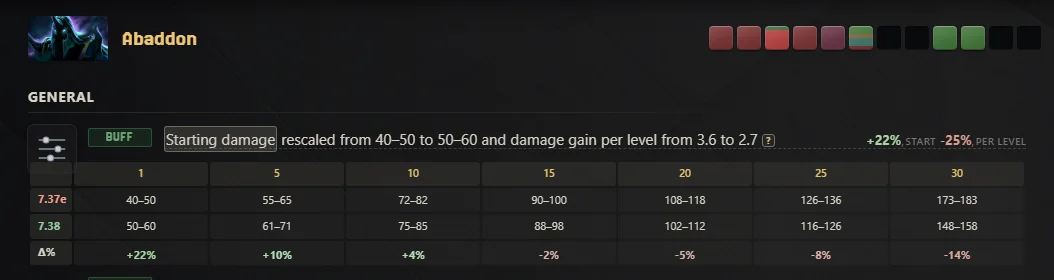
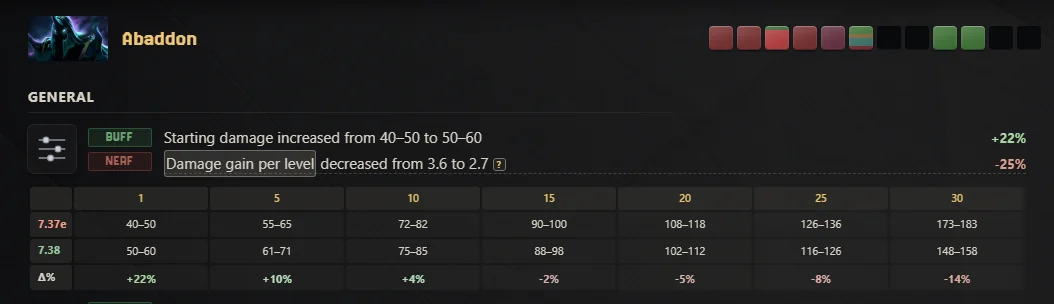
feat(heroes): hero damage as two rows, starting damage and gain per level, each with its own tag
One row could not carry one tag when the start went up and the growth went
down (Abaddon 7.38). Now "Starting damage increased from 40-50 to 50-60" (BUFF)
and "Damage gain per level decreased from 3.6 to 2.7" (NERF, opens the damage
by level). A number that did not change gets no row, the (?) says so. The
hidden rows' tags are no longer copied onto the rows (Batrider's NERF row showed
under BUFF). Abaddon's BUFF override is gone.

diff --git a/patch/elements.py b/patch/elements.py
@@ -617,22 +617,22 @@ def plain_header(name, dynamics=True, terrain_link=None, sublabel=False, new=Non
     return out + head + f'<div class="entity plain-entity"{eid}><div class="entity-name">{name}{label}</div>{link_html}</div>'
 
 
-# ---- A hero's attack damage by level as one row (owner 2026-09-28, pilot Abaddon 7.38) ----
+# ---- A hero's attack damage: starting damage + damage gain per level (owner 2026-09-28) ----
 # 7.38 lowered the Universal damage per attribute 0.7 -> 0.45 and raised base damage and attribute gains to make
 # up for it: "Base Damage increased by 26" (+650%) alone meant nothing. The damage rows of such a hero (base
-# damage, damage at level 1 / 30, damage gain per level) become ONE row "Attack damage by level" with a table
-# behind a click; they stay in the page hidden (tag filters, weights as before). Attribute rows stay rows.
-_HS_CARDS = {}                  # "<ek>|<pv>" -> {"hero", "before", "after", "tags", "valve": {1: ..., 30: ...}}
+# damage, damage at level 1 / 30, damage gain per level) become two rows, "Starting damage" and "Damage gain per
+# level", each with its own tag, the second with a table by level behind a click; the old rows stay in the page
+# hidden (tag filters, weights as before). Attribute rows stay rows.
+_HS_CARDS = {}                  # "<ek>|<pv>" -> {"hero", "before", "after", "valve": {1: ..., 30: ...}}
 _HS_LEVELS = (1, 5, 10, 15, 20, 25, 30)
 _HS_GAIN_VALVE_RE = re.compile(r"damage gain per level \w+ from \+?([\d.]+) to \+?([\d.]+)", re.I)
 _HS_DMG_VALVE_RE = re.compile(r"damage at level (1|30) \w+ by \d+ \(from (\d+)-(\d+) to (\d+)-(\d+)\)", re.I)
 
 
-def hero_stat_card(before=None, tag=None):
+def hero_stat_card(before=None):
     """Called right after the GENERAL ul_open() of a hero block. `before` = the patch compared against (the
-    previous one by default); `tag` = the row's chip when the owner set it (else the site's rule for a change
-    by level). Drawn when the page is saved (render_hs_card), after the rows under it have been matched: they
-    are hidden, their tags go on the row for the filters."""
+    previous one by default). Drawn when the page is saved (render_hs_card), after the rows under it have been
+    matched: they are hidden, their tags go on the rows for the filters."""
     from .hero_stats import attrs_changed
     from .weights import _prev_version
     ek, pv, hero = _State.current_entity_key or "", _State.current_patch_version, _State.current_hero
@@ -640,15 +640,15 @@ def hero_stat_card(before=None, tag=None):
     if not (ek.startswith("hero|") and pv and hero and before and attrs_changed(hero, before, pv)):
         return ""
     key = f"{ek}|{pv}"
-    _HS_CARDS[key] = {"hero": hero, "before": before, "after": pv, "tags": set(), "valve": {}, "tag": tag}
+    _HS_CARDS[key] = {"hero": hero, "before": before, "after": pv, "valve": {}}
     _State.hs_card = {"ek": ek, "pv": pv, "key": key}
     return f"<!--HSCARD:{key}-->"
 
 
 def _hs_covered(text, tags):
-    """A GENERAL row the hero's attributes card / damage table shows: attribute base / gain, base damage,
-    damage at level 1 / 30 and damage gain per level. Its tag goes on the card; Valve's level-1 / level-30
-    damage numbers are kept (the table shows them as Valve stated them)."""
+    """A GENERAL damage row the two damage rows show: base damage, damage at level 1 / 30 and damage gain per
+    level (hidden; its tag still counts for weights, `tags` unused here). Valve's level-1 / level-30 damage and
+    gain per level are kept: the rows and the table show them as Valve stated them."""
     card = getattr(_State, "hs_card", None)
     if not card or (card["ek"], card["pv"]) != (_State.current_entity_key, _State.current_patch_version):
         return False
@@ -662,10 +662,7 @@ def _hs_covered(text, tags):
     if g:                                            # Valve's own damage gain per level (3.6 -> 2.7)
         rec["valve"]["gain"] = (float(g.group(1)), float(g.group(2)))
     # only the damage rows: the attribute rows and a main attribute change stay rows (owner 2026-09-28)
-    if not (m or _DMG_ROW_RE.match(plain)):
-        return False
-    rec["tags"] |= set(tags)
-    return True
+    return bool(m or _DMG_ROW_RE.match(plain))
 
 
 def _hs_damage_cells(rec, old, new):
@@ -697,11 +694,32 @@ def _hs_table(fid, head, row_o, row_n, row_p, rec):
             f'<tr><th>Δ%</th>{row_p}</tr></tbody></table>')
 
 
+_HS_CHIPS = {"buff": '<span class="badge buff-text" data-tag="buff" data-overall="buff">BUFF</span>',
+             "nerf": '<span class="badge nerf-text" data-tag="nerf" data-overall="nerf">NERF</span>',
+             "misc": '<span class="badge misc" data-tag="misc">MISC</span>'}
+
+
+def _hs_tag(badge):
+    rule = re.search(r'data-overall="(\w+)"', badge)
+    return rule.group(1) if rule and rule.group(1) in ("buff", "nerf") else "misc"
+
+
+def _hs_row(name, before, after, badge, tail="", table=""):
+    """One row "<name> increased from A to B" with its own chip by the direction of its own number."""
+    tag = _hs_tag(badge)
+    verb = {"buff": "increased", "nerf": "decreased"}.get(tag, "changed")
+    cls = "li-bg li-formula hs-dmg-li" if table else "li-bg hs-dmg-li"
+    return (f'<li data-tag="{tag}" class="{cls}">{_HS_CHIPS[tag]}<span class="row-text">{name} {verb} from '
+            f'{before} to {after}{tail}</span>{badge}{table}</li>')
+
+
 def render_hs_card(key):
-    """ONE row in place of the hero's damage rows (owner 2026-09-28): "Starting damage rescaled from 40–50 to
-    50–60 and damage gain per level from 3.6 to 2.7" — "Starting damage" opens the damage at levels 1 … 30 (level
-    30 with all Attribute Bonus levels, as Valve counts it); the % of both numbers on the right (start, per
-    level); what damage is made of (damage per attribute, base damage) in the (?). Attribute rows stay rows."""
+    """TWO rows in place of the hero's damage rows (owner 2026-09-28: one row could not carry one tag when the
+    start went up and the growth went down, Abaddon 7.38): "Starting damage increased from 40–50 to 50–60" and
+    "Damage gain per level decreased from 3.6 to 2.7", each with its own % and chip; "Damage gain per level"
+    opens the damage at levels 1 … 30 (level 30 with all Attribute Bonus levels, as Valve counts it); what
+    damage is made of (damage per attribute, base damage) in the (?). A number that did not change has no row.
+    Attribute rows stay rows."""
     from .badges import b
     from .hero_stats import damage_at, hero_stats, universal_multiplier
     rec = _HS_CARDS.get(key)
@@ -711,10 +729,6 @@ def render_hs_card(key):
     avg = lambda p: (p[0] + p[1]) / 2
     cells = _hs_damage_cells(rec, old, new)
     pcts = [b(avg(o), avg(n)) for _, o, n in cells]
-    overall = rec.get("tag")
-    if overall not in ("buff", "nerf", "misc", "rework"):
-        rule = re.search(r'data-overall="(\w+)"', b([avg(o) for _, o, _ in cells], [avg(n) for _, _, n in cells]))
-        overall = rule.group(1) if rule and rule.group(1) in ("buff", "nerf") else "misc"
     # Valve's own per-level figures when the notes state them, else the game files' rounded to 0.1
     model = lambda st, ver: round(damage_at(st, ver, 2)[0] - damage_at(st, ver, 1)[0], 1)
     per_o, per_n = rec["valve"].get("gain") or (model(old, rec["before"]), model(new, rec["after"]))
@@ -724,15 +738,6 @@ def render_hs_card(key):
                       "".join(f"<td>{o[0]}–{o[1]}</td>" for _, o, _ in cells),
                       "".join(f"<td>{n[0]}–{n[1]}</td>" for _, _, n in cells),
                       "".join(f"<td>{_hs_inner(p)}</td>" for p in pcts), rec)
-    # the two numbers of the row, each with its %: starting damage and damage gain per level (owner 2026-09-28:
-    # "start / end" showed the level-30 damage, not the gain; that one is in the table)
-    badge = (f'<span class="badge-group" data-overall="{overall}">{_hs_inner(pcts[0])}'
-             f'<span class="formula-endpoint-label">start</span>{_hs_inner(b(per_o, per_n))}'
-             f'<span class="formula-endpoint-label">per level</span></span>')
-    chip = {"buff": '<span class="badge buff-text" data-tag="buff" data-overall="buff">BUFF</span>',
-            "nerf": '<span class="badge nerf-text" data-tag="nerf" data-overall="nerf">NERF</span>',
-            "rework": '<span class="badge rework" data-tag="rework">REWORK</span>',
-            "misc": '<span class="badge misc" data-tag="misc">MISC</span>'}[overall]
     notes = []
     if "all" in (old["primary"], new["primary"]):
         mo = universal_multiplier(rec["before"]) if old["primary"] == "all" else None
@@ -742,22 +747,27 @@ def render_hs_card(key):
     if (old["dmg_min"], old["dmg_max"]) != (new["dmg_min"], new["dmg_max"]):
         notes.append(f'Base damage {old["dmg_min"]:g}–{old["dmg_max"]:g} → {new["dmg_min"]:g}–{new["dmg_max"]:g}'
                      + (" makes up for it" if notes else ""))
-    notes.append("Level 30 counts all 7 Attribute Bonus levels (+14 to every attribute), as Valve does")
-    tip = f'<span class="li-tail">{info_tip(*notes)}</span>'
-    tags = " ".join(sorted(rec["tags"] | {overall}))
     (o1, n1) = cells[0][1], cells[0][2]
-    trig = lambda words: f'<span class="formula-trigger" data-formula="{fid}">{words}</span>'
     s1, s2 = f"{o1[0]}–{o1[1]}", f"{n1[0]}–{n1[1]}"
     g1, g2 = f"{per_o:.1f}", f"{per_n:.1f}"
-    if o1 == n1:          # Batrider 7.38: "rescaled from 39–43 to 39–43" said nothing
-        text = f'{trig("Damage gain per level")} rescaled from {g1} to {g2}, starting damage unchanged at {s1}{tip}'
-    elif g1 == g2:
-        text = f'{trig("Starting damage")} rescaled from {s1} to {s2}, damage gain per level unchanged at {g1}{tip}'
-    else:
-        text = (f'{trig("Starting damage")} rescaled from {s1} to {s2} and damage gain per level '
-                f'from {g1} to {g2}{tip}')
-    return (f'<li data-tag="{tags}" class="li-bg li-formula hs-dmg-li">{chip}<span class="row-text">{text}</span>'
-            f'{badge}{table}</li>')
+    if o1 == n1:                                     # Batrider 7.38: the start stayed, only the growth moved
+        notes.append(f"Starting damage unchanged at {s1}")
+    if g1 == g2:
+        notes.append(f"Damage gain per level unchanged at {g1}")
+    notes.append("Level 30 counts all 7 Attribute Bonus levels (+14 to every attribute), as Valve does")
+    tip = f'<span class="li-tail">{info_tip(*notes)}</span>'
+    trig = lambda words: f'<span class="formula-trigger" data-formula="{fid}">{words}</span>'
+    start = (("Starting damage", s1, s2, pcts[0]),) if o1 != n1 else ()
+    gain = (("Damage gain per level", g1, g2, b(per_o, per_n)),) if g1 != g2 else ()
+    shown = start + gain or (("Starting damage", s1, s2, pcts[0]),)
+    # each row only its own tag: the hidden rows' tags (Base Damage +26 = BUFF) do not put a NERF row under BUFF;
+    # a hidden row never keeps a block on screen (scripts.js rowOnScreen)
+    rows = []
+    for i, (name, before, after, badge) in enumerate(shown):
+        last = i == len(shown) - 1                   # the last row opens the table and carries the (?)
+        rows.append(_hs_row(trig(name) if last else name, before, after, badge,
+                            tail=tip if last else "", table=table if last else ""))
+    return "".join(rows)
 
 
 _HS_TABLE_ID = [0]

diff --git a/tests/test_hero_stat_card.py b/tests/test_hero_stat_card.py
@@ -1,5 +1,6 @@
-"""Owner 2026-09-28 (Abaddon 7.38): a hero's GENERAL block starts with an attributes card (base + gain, base damage,
-damage per attribute; before -> after) and a table of attack damage by level; the rows it shows are hidden."""
+"""Owner 2026-09-28 (Abaddon 7.38): a hero whose damage growth Valve rescaled gets two rows at the top of GENERAL,
+"Starting damage …" and "Damage gain per level …", each with its own tag, the second opening the damage by level;
+Valve's damage rows under them are hidden."""
 import re
 
 from patch import elements as el
@@ -31,21 +32,16 @@ def test_card_hides_its_rows_and_carries_their_tags():
         assert not el._hs_covered("Mist Coil damage increased from 100 to 120", {"buff"})
         assert el._hs_covered("Damage gain per level decreased from +3.6 to +2.7", {"nerf"})
         html = el.render_hs_card("hero|abaddon|7.38")
-        # ONE row with the numbers in it; "Starting damage" opens the damage by level
-        assert html.startswith('<li data-tag="buff nerf" class="li-bg li-formula hs-dmg-li">')
-        assert re.search(r'>Starting damage</span> rescaled from 40–50 to 50–60 and damage gain per level '
-                         r'from 3\.6 to 2\.7<', html)
-        assert html.count('class="formula-table') == 1                        # one table
+        # TWO rows, each with its own tag (owner 2026-09-28: the start went up, the growth went down)
+        start, gain = re.findall(r"<li .*?</li>(?=<li |$)", html, re.S)
+        assert start.startswith('<li data-tag="buff" class="li-bg hs-dmg-li">')
+        assert "Starting damage increased from 40–50 to 50–60<" in start and ">+22%<" in start
+        assert gain.startswith('<li data-tag="nerf" class="li-bg li-formula hs-dmg-li">')
+        assert re.search(r'>Damage gain per level</span> decreased from 3\.6 to 2\.7<', gain) and ">-25%<" in gain
+        assert html.count('class="formula-table') == 1 and 'class="formula-table' in gain   # one table, 2nd row
         # level 30 = Valve's figure, all 7 Attribute Bonus levels counted
-        assert "173–183" in html and "148–158" in html and "all 7 Attribute Bonus levels" in html
-        # the % of both numbers: starting damage +22%, gain per level 3.6 -> 2.7 = -25% (level 30's -14%: table)
-        assert re.search(r'\+22%</span><span class="formula-endpoint-label">start</span>'
-                         r'<span class="badge nerf\d+">-25%</span><span class="formula-endpoint-label">per level</span>', html)
-        assert 'data-overall="nerf">NERF</span>' in html                      # the site's rule: -14% at the end
-        assert "0.7 → 0.45 damage per attribute" in html
-        _HS = el._HS_CARDS["hero|abaddon|7.38"]
-        _HS["tag"] = "buff"                                                   # the owner's choice for Abaddon
-        assert 'data-overall="buff">BUFF</span>' in el.render_hs_card("hero|abaddon|7.38")
+        assert "173–183" in gain and "148–158" in gain and "all 7 Attribute Bonus levels" in gain
+        assert "0.7 → 0.45 damage per attribute" in gain
     finally:
         _State.current_entity_key, _State.current_patch_version, _State.current_hero, _State.hs_card = saved
 
@@ -72,7 +68,8 @@ def test_unchanged_starting_damage_is_said_so():
         el.hero_stat_card()
         el._hs_covered("Damage at level 1 increased by 0 (from 39-43 to 39-43)", {"misc"})
         html = el.render_hs_card("hero|batrider|7.38")
-        assert re.search(r'>Damage gain per level</span> rescaled from [\d.]+ to [\d.]+, starting damage unchanged '
-                         r'at 39–43', html)
+        # the start did not move: no row for it, only the growth's row, the (?) says so
+        assert html.count("<li ") == 1 and "Starting damage unchanged at 39–43" in html
+        assert re.search(r'data-tag="nerf".*>Damage gain per level</span> decreased from [\d.]+ to [\d.]+<', html)
     finally:
         _State.current_entity_key, _State.current_patch_version, _State.current_hero, _State.hs_card = saved

diff --git a/tools/changelog_shots.py b/tools/changelog_shots.py
@@ -74,7 +74,7 @@ SHOTS = {
                                     ".ec-islot >> nth=1", ".ec-ipicker-overlay [data-ec-ipick='blink-dagger']"],
                                    140, {"width": 1400, "wait": 1500}),
     "2026-09-28_hero_damage.webp": ("patches/7.38.html", ("block", "Abaddon"),
-                                    [":scope > .entity", ":scope li.hs-dmg-li"],
+                                    [":scope > .entity", ":scope li.hs-dmg-li.li-formula"],
                                     [":scope li.hs-dmg-li .formula-trigger"], 420, {"width": 1400}),
     "2026-09-28_enchant_table.webp": ("patches/7.38.html", None,
                                       [".entity-block.enchant-list-head", ".entity-block.enchant-list-row >> nth=5"], [], 420, {"settle": 2500}),

diff --git a/content/p738.py b/content/p738.py
@@ -790,7 +790,7 @@ def build():
     # Abaddon
     W(hero_header("Abaddon"))
     W(ul_open())
-    W(hero_stat_card(tag="buff"))   # the owner kept BUFF (2026-09-28)
+    W(hero_stat_card())
     W(li("Base Damage increased by 26", bstat_h("Abaddon", "AttackDamageMin", "7.37e", 26), extra=note_box(hero="Abaddon", field="AttackDamageMin", before_patch="7.37e")))
     W(li("Base Intelligence decreased from 19 to 18", b(19, 18)))
     W(li("Damage at level 1 increased by 10 (from 40-50 to 50-60)", br(40, 50, 50, 60)))

diff --git a/docs/agent-rules/entity-rendering.md b/docs/agent-rules/entity-rendering.md
@@ -269,36 +269,37 @@ damage» — не про характеристику урона). «+N All Attr
   про встроенный бонус дальности).
 - Длинные значения (5 уровней Dagon) переносятся второй строкой справа, название способности не разрывается.
 
-## Урон атаки героя одной строкой (2026-09-28: пилот на Abaddon 7.38, раскатано на 36 героев)
+## Урон атаки героя: стартовый урон + прирост за уровень (2026-09-28, 36 героев)
 
 7.38 снизил урон универсалов за очко характеристики 0.7 → 0.45 и поднял базовый урон и прирост в компенсацию:
 «Base Damage increased by 26» (+650%) сам по себе ничего не значил. `hero_stat_card()` (patch/elements.py,
-модель — patch/hero_stats.py по файлам игры обоих патчей) — ОДНА строка вместо строк урона:
+модель — patch/hero_stats.py по файлам игры обоих патчей) — ДВЕ строки вместо строк урона, у каждой свой тег и %:
 
-«**Starting damage** rescaled from 40–50 to 50–60 and damage gain per level from 3.6 to 2.7 (?)  +22% start −25% per level»
+«BUFF  Starting damage increased from 40–50 to 50–60  +22%»
+«NERF  **Damage gain per level** decreased from 3.6 to 2.7 (?)  −25%»
 
-Справа — проценты обоих чисел (стартовый урон и прирост за уровень); итог на 30-м уровне (−14%) — в таблице.
-
-- «Starting damage» — кнопка формулы: урон на уровнях 1, 5, 10, 15, 20, 25, 30 (было / стало / Δ%). 30-й уровень
+- Две строки, а не одна (владелец 2026-09-28): старт вырос, прирост упал — одна строка не несла один тег
+  (у Abaddon правило давало NERF, владелец хотел BUFF). Тег каждой строки — по направлению её числа;
+  increased / decreased по тегу, «changed» при 0% (Sand King 7.38: 46–54 → 45–55, MISC).
+- Число, которое не поменялось, строки не получает, в (?) пишется «Starting damage unchanged at 39–43»
+  (Batrider 7.38) / «Damage gain per level unchanged at X».
+- Последняя строка — кнопка формулы: урон на уровнях 1, 5, 10, 15, 20, 25, 30 (было / стало / Δ%). 30-й уровень
   считает все 7 уровней Attribute Bonus (+14 ко всем характеристикам), как у Valve: числа 1-го и 30-го уровней —
   Valve из скрытых строк (173–183 → 148–158), остальные — рост героя по файлам игры без Attribute Bonus;
 - прирост за уровень — числа Valve (3.6 → 2.7), иначе модель, округлённая до 0.1; отдельной таблицы нет;
-- в (?) — множитель универсалов, базовый урон «было → стало» и что 30-й уровень считает Attribute Bonus;
-- тег: `hero_stat_card(tag=...)`, если владелец задал (Abaddon — BUFF), иначе правило сайта `b()` по уровням
-  (у Abaddon оно дало бы NERF: −14% в конце больше 12%).
-- Скрыты строки урона: Base Damage, Damage at level 1 / 30, Damage gain per level; их теги на строке (фильтры),
-  веса — как раньше (`_flush_damage_rows`). Строки характеристик и смена основной характеристики — обычные строки.
+- в (?) последней строки — множитель универсалов, базовый урон «было → стало», что 30-й уровень считает
+  Attribute Bonus и какое число не менялось.
+- Скрыты строки урона: Base Damage, Damage at level 1 / 30, Damage gain per level. Их теги на новые строки НЕ
+  переносятся (иначе NERF-строка Batrider всплывала под BUFF из-за «Base Damage increased»): скрытая строка
+  блок на экране не держит (scripts.js `rowOnScreen`). Веса — как раньше (`_flush_damage_rows`). Строки
+  характеристик и смена основной характеристики — обычные строки.
 - Отвергнуты владельцем: две коробки «было | стало», рамка с таблицей характеристик, «Attack damage by level» со
-  столбцом «30 + AB», вторая таблица прироста за уровень.
-- Формулировка по тому, что поменялось: оба числа — «Starting damage rescaled from A to B and damage gain per
-  level from X to Y»; старт тот же (Batrider 7.38) — «Damage gain per level rescaled from X to Y, starting damage
-  unchanged at A»; прирост тот же — «Starting damage rescaled from A to B, damage gain per level unchanged at X».
+  столбцом «30 + AB», вторая таблица прироста за уровень, одна строка «rescaled … and …» с одним тегом.
 - Где стоит (одобрено владельцем 2026-09-28): только там, где Valve САМИ пересчитали рост урона — в GENERAL есть
   строка «Damage gain per level …» или «Damage at level 30 …», и у героя по файлам игры поменялись характеристики
   (`attrs_changed`). Одиночная «Damage at level 1 +1» (Sven 7.41) остаётся строкой: это правка базового урона.
   Сейчас: 35 героев 7.38 + Spectre 7.40. Генератор вставляет сам: `_postprocess_hero_stat_card(lines, version)`
-  первым в GENERAL. Тег по правилу: у большинства NERF; BUFF — Arc Warden, Death Prophet, Nature's Prophet,
-  Spectre 7.38; Abaddon — BUFF по решению владельца. Тест: `tests/test_hero_stat_card.py`.
+  первым в GENERAL. Тест: `tests/test_hero_stat_card.py`.
 
 ## Список нейтральных зачарований — одна таблица (2026-09-28, 7.38)
 
